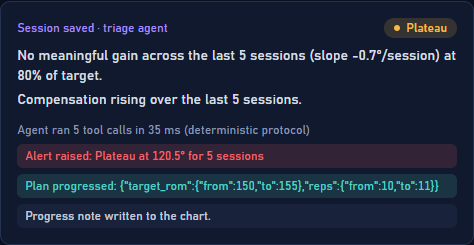
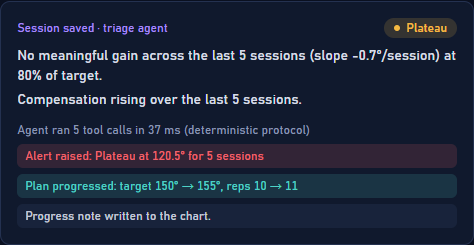
Fix agent wording: badge reflects how agents run, readable plan change, no doubled name in digest alerts
- Agents tab badge reads "deterministic protocol" when the tenant has no model
  (new GET /api/agents/status) and "Informer AI" only when it has one.
- Session result shows "target 150° → 155°, reps 10 → 11" instead of raw JSON.
- Weekly digest alert titles drop the patient name; the queue already shows it,
  and older titles are trimmed on display.
- Smoke checks for the status route and the title; README media recaptured.

Changed region(s): [[0.2363, 0.7143, 0.9451, 0.8], [0.3249, 0.5143, 0.3544, 0.5429]]

diff --git a/src/views/AgentsView.tsx b/src/views/AgentsView.tsx
@@ -20,6 +20,9 @@ export default function AgentsView({ refresh }: { refresh: () => void }) {
   const [busy, setBusy] = useState<string | null>(null);
   const [last, setLast] = useState<AgentRun | null>(null);
   const [notice, setNotice] = useState<string | null>(null);
+  // On Informer: does the tenant have a model (Informer runs the agents) or not
+  // (the routes run the same protocol in-process)? null until known.
+  const [ai, setAi] = useState<boolean | null>(null);
   const pollTimer = useRef<number | null>(null);
 
   const loadRuns = useCallback(() => api.agentRuns({ limit: 20 }).then(setRuns).catch(() => setRuns([])), []);
@@ -27,6 +30,7 @@ export default function AgentsView({ refresh }: { refresh: () => void }) {
   useEffect(() => {
     loadRuns();
     if (dev) api.agents().then((list) => setAgents((cur) => cur.map((a) => ({ ...a, mode: list.find((x) => x.name === a.name)?.mode })))).catch(() => {});
+    else api.agentStatus().then((s) => setAi(s.ai)).catch(() => {});
     return () => { if (pollTimer.current) window.clearTimeout(pollTimer.current); };
   }, [dev, loadRuns]);
 
@@ -95,9 +99,17 @@ export default function AgentsView({ refresh }: { refresh: () => void }) {
                 <div className="font-medium">{a.name}</div>
                 <div className="text-xs text-mute">{a.cron ? `cron ${a.cron}` : `on ${Array.isArray(a.on) ? a.on.join(', ') : a.on}`} · model {a.model}</div>
               </div>
-              <span className="shrink-0 rounded-full px-2 py-0.5 text-[11px]" style={{ background: a.mode === 'llm' ? 'rgba(167,139,250,0.18)' : 'rgba(79,209,197,0.14)', color: a.mode === 'llm' ? '#A78BFA' : '#4FD1C5' }}>
-                {a.mode === 'llm' ? 'LLM loop' : a.mode === 'fallback' ? 'offline plan' : 'Informer AI'}
-              </span>
+              {(() => {
+                const model = dev ? a.mode === 'llm' : ai === true;
+                const label = dev
+                  ? (a.mode === 'llm' ? 'LLM loop' : a.mode === 'fallback' ? 'deterministic protocol' : 'Informer agent')
+                  : (ai === true ? 'Informer AI' : ai === false ? 'deterministic protocol' : 'Informer agent');
+                return (
+                  <span className="shrink-0 rounded-full px-2 py-0.5 text-[11px]" style={{ background: model ? 'rgba(167,139,250,0.18)' : 'rgba(79,209,197,0.14)', color: model ? '#A78BFA' : '#4FD1C5' }}>
+                    {label}
+                  </span>
+                );
+              })()}
             </div>
             <p className="mt-2 text-sm text-paper/85">{a.description}</p>
             <div className="mt-2 flex flex-wrap gap-1">

diff --git a/src/views/SessionView.tsx b/src/views/SessionView.tsx
@@ -345,7 +345,7 @@ function OutcomeCard({ outcome }: { outcome: Outcome }) {
         <div className="mt-3 space-y-1.5 text-xs">
           <div className="text-mute">Agent ran {calls.length} tool calls{outcome.agent.durationMs ? ` in ${outcome.agent.durationMs} ms` : ''} ({outcome.agent.mode === 'llm' ? 'Claude' : outcome.agent.mode === 'fallback' || outcome.agent.mode === 'inline' ? 'deterministic protocol' : 'Informer AI'})</div>
           {alert && <div className="rounded-md bg-coral/15 px-2 py-1 text-coral">Alert raised: {String((alert.args as { title?: string }).title)}</div>}
-          {plan && <div className="rounded-md bg-teal/15 px-2 py-1 text-teal">Plan progressed: {JSON.stringify((plan.result as { change?: unknown }).change)}</div>}
+          {plan && <div className="rounded-md bg-teal/15 px-2 py-1 text-teal">Plan progressed: {describePlanChange((plan.result as { change?: PlanChange }).change)}</div>}
           {note && <div className="rounded-md bg-ink-800 px-2 py-1 text-paper/80">Progress note written to the chart.</div>}
         </div>
       ) : outcome.agentError ? (
@@ -356,3 +356,18 @@ function OutcomeCard({ outcome }: { outcome: Outcome }) {
     </div>
   );
 }
+
+type PlanChange = Record<string, { from: number | string; to: number | string }>;
+const PLAN_FIELDS: Record<string, [string, string]> = {
+  target_rom: ['target', '°'], reps: ['reps', ''], sets: ['sets', ''], frequency_per_week: ['sessions a week', ''],
+};
+/** {"target_rom":{"from":150,"to":155},"reps":{...}} → "target 150° → 155°, reps 10 → 11" */
+function describePlanChange(change: PlanChange | undefined): string {
+  const parts = Object.entries(change || {}).map(([k, v]) => {
+    const [label, unit] = PLAN_FIELDS[k] || [k.replace(/_/g, ' '), ''];
+    const n = (x: number | string) => `${Math.round(Number(x) * 10) / 10}${unit}`;
+    return `${label} ${n(v.from)} → ${n(v.to)}`;
+  });
+  return parts.length ? parts.join(', ') : 'updated';
+}
+

diff --git a/src/views/ClinicianDashboard.tsx b/src/views/ClinicianDashboard.tsx
@@ -110,7 +110,7 @@ export default function ClinicianDashboard({ patients, refresh, version }: { pat
                   <div className="flex items-start gap-2">
                     <SeverityDot severity={a.severity} />
                     <div className="min-w-0 flex-1">
-                      <div className="text-sm font-medium">{a.patient_name} — {a.title}</div>
+                      <div className="text-sm font-medium">{a.patient_name} — {alertTitle(a.title, a.patient_name)}</div>
                       <p className="mt-0.5 text-xs text-mute">{a.body}</p>
                       <div className="mt-1 text-[11px] text-mute">{a.kind} · {a.created_by} · {timeAgo(a.created_at)}</div>
                     </div>
@@ -132,3 +132,10 @@ export default function ClinicianDashboard({ patients, refresh, version }: { pat
     </div>
   );
 }
+
+// Older digest alerts carry the patient's name in the title ("Tomás Alvarez: 0 of 5
+// sessions this week"); the queue already shows the name, so drop the repeat.
+function alertTitle(title: string, name: string | null | undefined): string {
+  return name && title.startsWith(`${name}: `) ? title.slice(name.length + 2) : title;
+}
+

diff --git a/src/lib/api.ts b/src/lib/api.ts
@@ -104,6 +104,7 @@ export const api = {
   triggerAgent: (name: string, event: string, payload: unknown) => call<AgentRun>('POST', `/api/_agent/${name}/_trigger`, { event, payload }),
   agentRuns: (opts: { limit?: number; sessionId?: number } = {}) => call<AgentRunRow[]>('GET', `/api/agents/runs?limit=${opts.limit ?? 20}${opts.sessionId ? `&session_id=${opts.sessionId}` : ''}`),
   // Production: ask Informer to run the agent (owner-backed server route); dev servers trigger in-process.
+  agentStatus: () => call<{ ai: boolean }>('GET', '/api/agents/status'),
   triggerAgentOnPlatform: (name: string) => call<AgentRun & { steps?: AgentStep[] }>('POST', '/api/agents/trigger', { name }),
   me: () => call<Me>('GET', '/api/me'),
   logout: async () => { await fetch('/_auth/logout', { method: 'POST', credentials: 'same-origin' }); },

diff --git a/lib/triage.js b/lib/triage.js
@@ -107,7 +107,7 @@ export async function runWeeklyReport(bag, { runId } = {}) {
   for (const p of caseload?.patients || []) {
     if (Number(p.adherence) < 60) {
       await call('create_alert', { patient_id: p.patient_id, severity: 'low', kind: 'adherence',
-        title: `${p.name}: ${p.sessions_7d} of ${p.prescribed_per_week} sessions this week`,
+        title: `${p.sessions_7d} of ${p.prescribed_per_week} sessions this week`,
         body: `Weekly digest flagged adherence at ${n0(p.adherence)}%. Suggested: a short check-in message and confirm the home setup still works.` });
     }
   }

diff --git a/server/agents/status.js b/server/agents/status.js
@@ -1,0 +1,11 @@
+// GET /api/agents/status — how the app's agents run on this install, for the
+// badge on the Agents tab: { ai: true } when the tenant has a model in its
+// catalog (Informer runs the agents), { ai: false } when it has none and the
+// session and "Run now" routes run the protocol in-process (lib/triage.js).
+export const config = { roles: ['clinician', 'admin'] };
+
+import { aiConfigured } from '../../lib/ai.js';
+
+export async function GET({ fetch }) {
+  return { ai: await aiConfigured(fetch) };
+}

diff --git a/docs/DEVPOST.md b/docs/DEVPOST.md
@@ -90,7 +90,7 @@ ArcRx turns a laptop webcam into a clinical range-of-motion instrument backed by
 - Four exercises across two vision models, each with its own compensation checks.
 - Six weeks of realistic longitudinal data for four patients (plateau, regression with pain, ready-to-progress, non-adherent) so the analytics and both agents have something true to say.
 - Full conformance to the Informer Apps structure: `informer.yaml`, `server/`, `tools/`, `migrations/`, `lib/`, package `informer` block, workspace and deploy scripts.
-- 99 server checks, 23 computer-vision fixture checks, a 35-scenario browser matrix (Chrome and Edge) and 17 live Informer checks.
+- 102 server checks, 23 computer-vision fixture checks, a 35-scenario browser matrix (Chrome and Edge) and 17 live Informer checks.
 
 ### What we learned
 

diff --git a/README.md b/README.md
@@ -189,7 +189,7 @@ app's `notifications:` opt-in, which this prototype does not declare yet.
   ready-to-progress, non-adherent), anchored to the day the workspace is created.
 - Privacy verified at runtime: only the app's own origin is contacted, and the only write is about
   450 bytes of scored numbers per session.
-- 99 server checks, 23 computer-vision fixture checks, a 35-scenario browser matrix and 17 live
+- 102 server checks, 23 computer-vision fixture checks, a 35-scenario browser matrix and 17 live
   Informer checks.
 
 ## What's next
